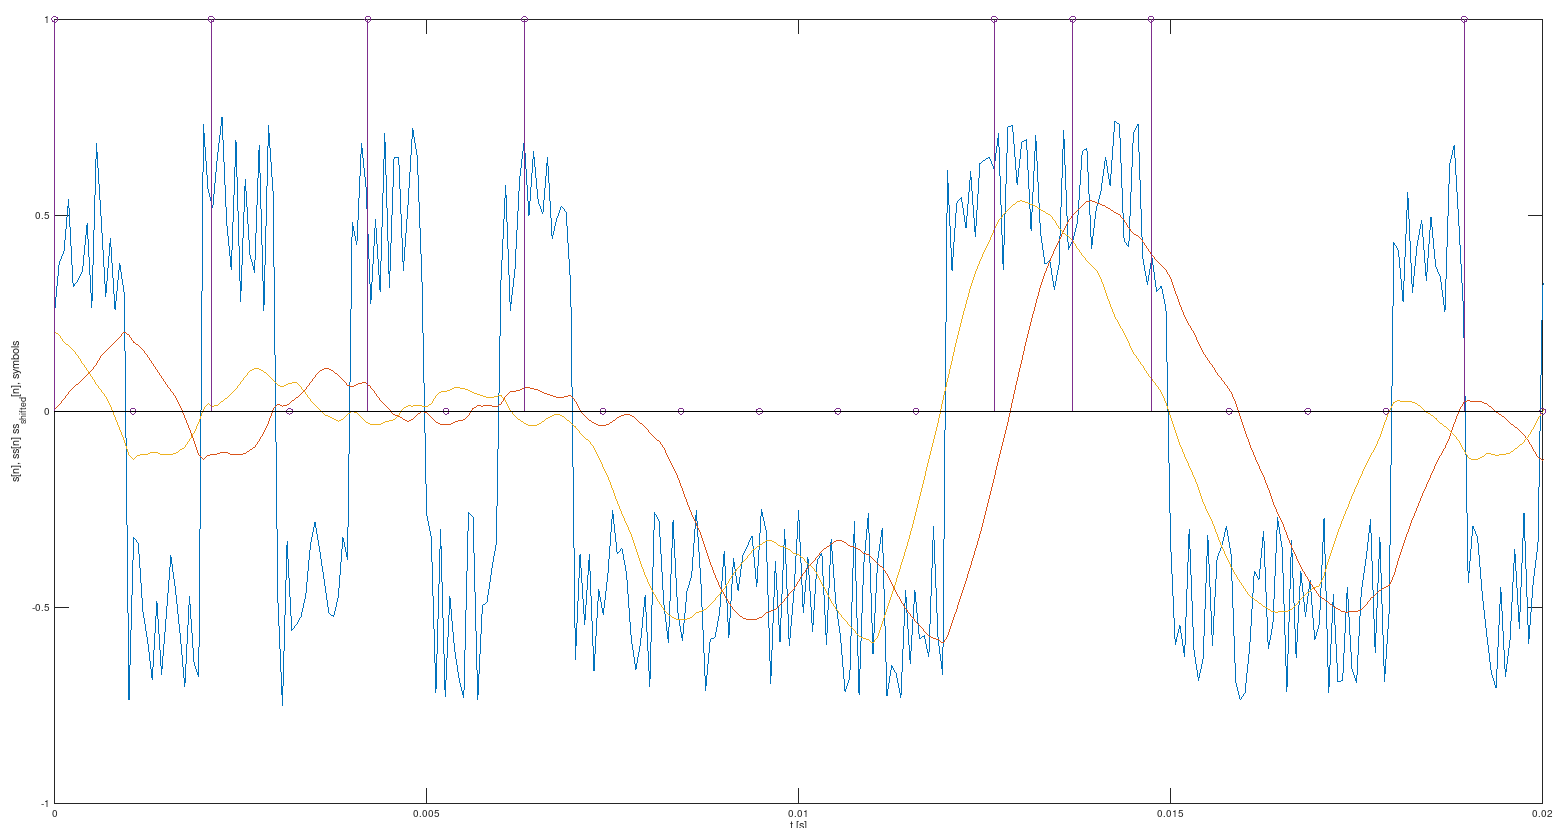
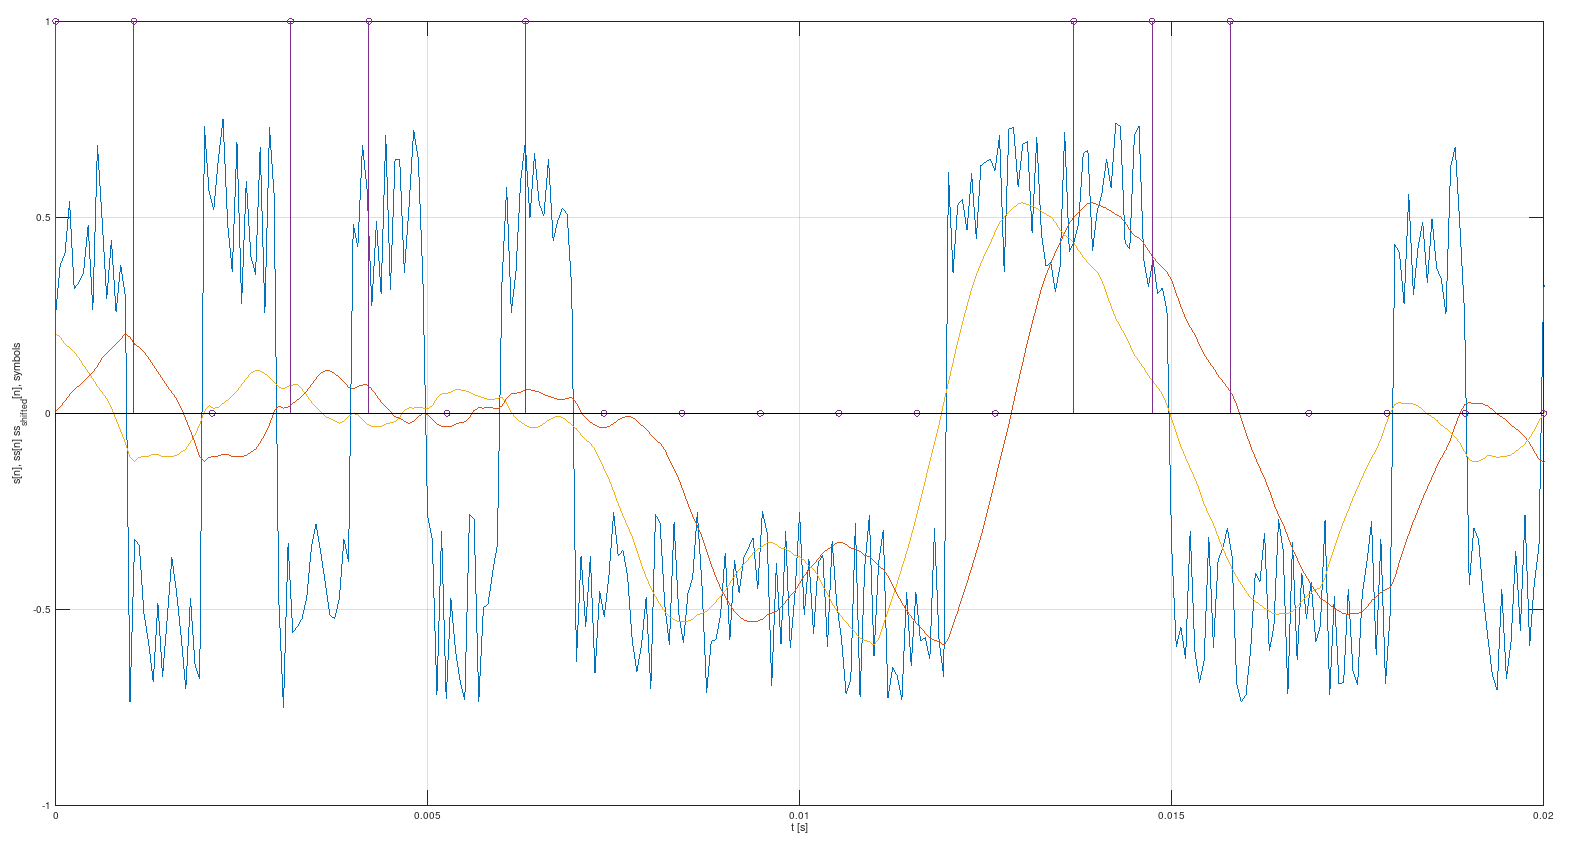
protocol

diff --git a/protocol/protocol.tex b/protocol/protocol.tex
@@ -23,7 +23,7 @@ Dĺžka vo vzorkách: 32000\\
 Dĺžka v sekundách: 2\\
 Počet binárnych symbolov: 2000
 \item
-Signál preiterujem, s tým rozdielom že sa na začiatku posuniem o 8 vzoriek, a následne sa posuvám o 16 vzoriek po každej iterácii. V každej iterácii taktiež vyhodnocujem binárnu hodnotu podľa hodnoty signálu v danom bode a ukladám ju do poľa.
+Signál preiterujem, s tým rozdielom že sa na začiatku posuniem o 8 vzoriek, a následne sa posuvám o 16 vzoriek po každej iterácii. V každej iterácii taktiež vyhodnocindexujem binárnu hodnotu podľa hodnoty signálu v danom bode a ukladám ju do poľa. Výsledné binárne hodnoty som porovnal pomocou príkazu \texttt{diff}.
 \includegraphics[width=\linewidth]{2}
 \item
 Filter je \textbf{stabilný}, všetky póly sú vo vnútri jednotkovej kružnice, graf som vytvoril pomocou funkcie \texttt{zplane}.
@@ -33,20 +33,21 @@ Filter je \textbf{stabilný}, všetky póly sú vo vnútri jednotkovej kružnice
 Filter je typu \textbf{dolná priepusť}, ako vidíme v grafe. Medzná frekvencia je 487.25Hz.
 \includegraphics[width=\linewidth]{4}
 \item
-Využil som oneskorenie o 15 vzorkov. Snažil som sa o pretnutie osi x približne v čase 0.012s
+Využil som oneskorenie o 15 vzoriek. Snažil som sa o pretnutie osi x približne v čase 0.012s
 \item
+Vykreslené tri signály, pôvodný, posunutý a binárne hodnoty posunutého signálu.
 \includegraphics[width=\linewidth]{6}
 \item
 Kedže som signál posunul o viac ako 8 vzoriek, využil som o jednu vzorku menej.\\
-Počet chýb: 1999\\
-Celkový počet vzorkov: 83\\
+Počet chýb: 83\\
+Celkový počet vzoriek: 1999\\
 Chybovosť: 4.1521
 \newpage
 \item
-Filtrovaný signál sa približuje k nule omnoho rýchlejšie, takmer okamžite po medznej frekvecnii, po ktorej stagnuje.
+Filtrovaný signál sa približuje k nule omnoho rýchlejšie ako nefiltrovaný signál.
 \includegraphics[width=\linewidth]{8}
 \item
-Použitá funkcia \texttt{hist} s načítaným signálom.
+Použitá funkcia \texttt{hist} s načítaným signálom rozprestrená na 100 vzoriek.
 \includegraphics[width=\linewidth]{9}
 \item
 \texttt{[r, delay] = xcorr(s, 'biased');} Osa x limitovaná na $<$-50,50$>$
@@ -62,6 +63,6 @@ Využil som funkciu hist2 a funkciu plot3.
 Overenie pomocou funkcie hist2 \\
 \texttt{hist2: check -- 2d integral should be 1 and is 1}
 \item
-Výsledok funkcie hist2 je 0.235146 a R1 z úlohy 10. je 0.23513. S prijateľnou odchýlkou po zaokrúhlení sú tieto hodnoty rovnaké.
+Výsledok funkcie hist2 je 0.235146 a R1 z úlohy 11. je 0.23513. S prijateľnou odchýlkou po zaokrúhlení sú tieto hodnoty rovnaké.
 \end{enumerate}
 \end{document}

diff --git a/resolution.m b/resolution.m
@@ -65,9 +65,10 @@ xlabel("t [s]");
 % 6
 shifted = circshift(filtered, -15);
 plot(x, shifted);
-stem(stem_spaced, bit_samples(1:20));
+stem(stem_spaced, bit_samples_filtered(1:20));
 xlim([0, 0.02]);
 hold off
+
 
 % 7
 tmp = 0;
@@ -111,6 +112,5 @@ plot3(-x,x,p);
 axis xy;
 colorbar;
 
-% 13
+% 14
 printf("13 - %d\n", r);
-
